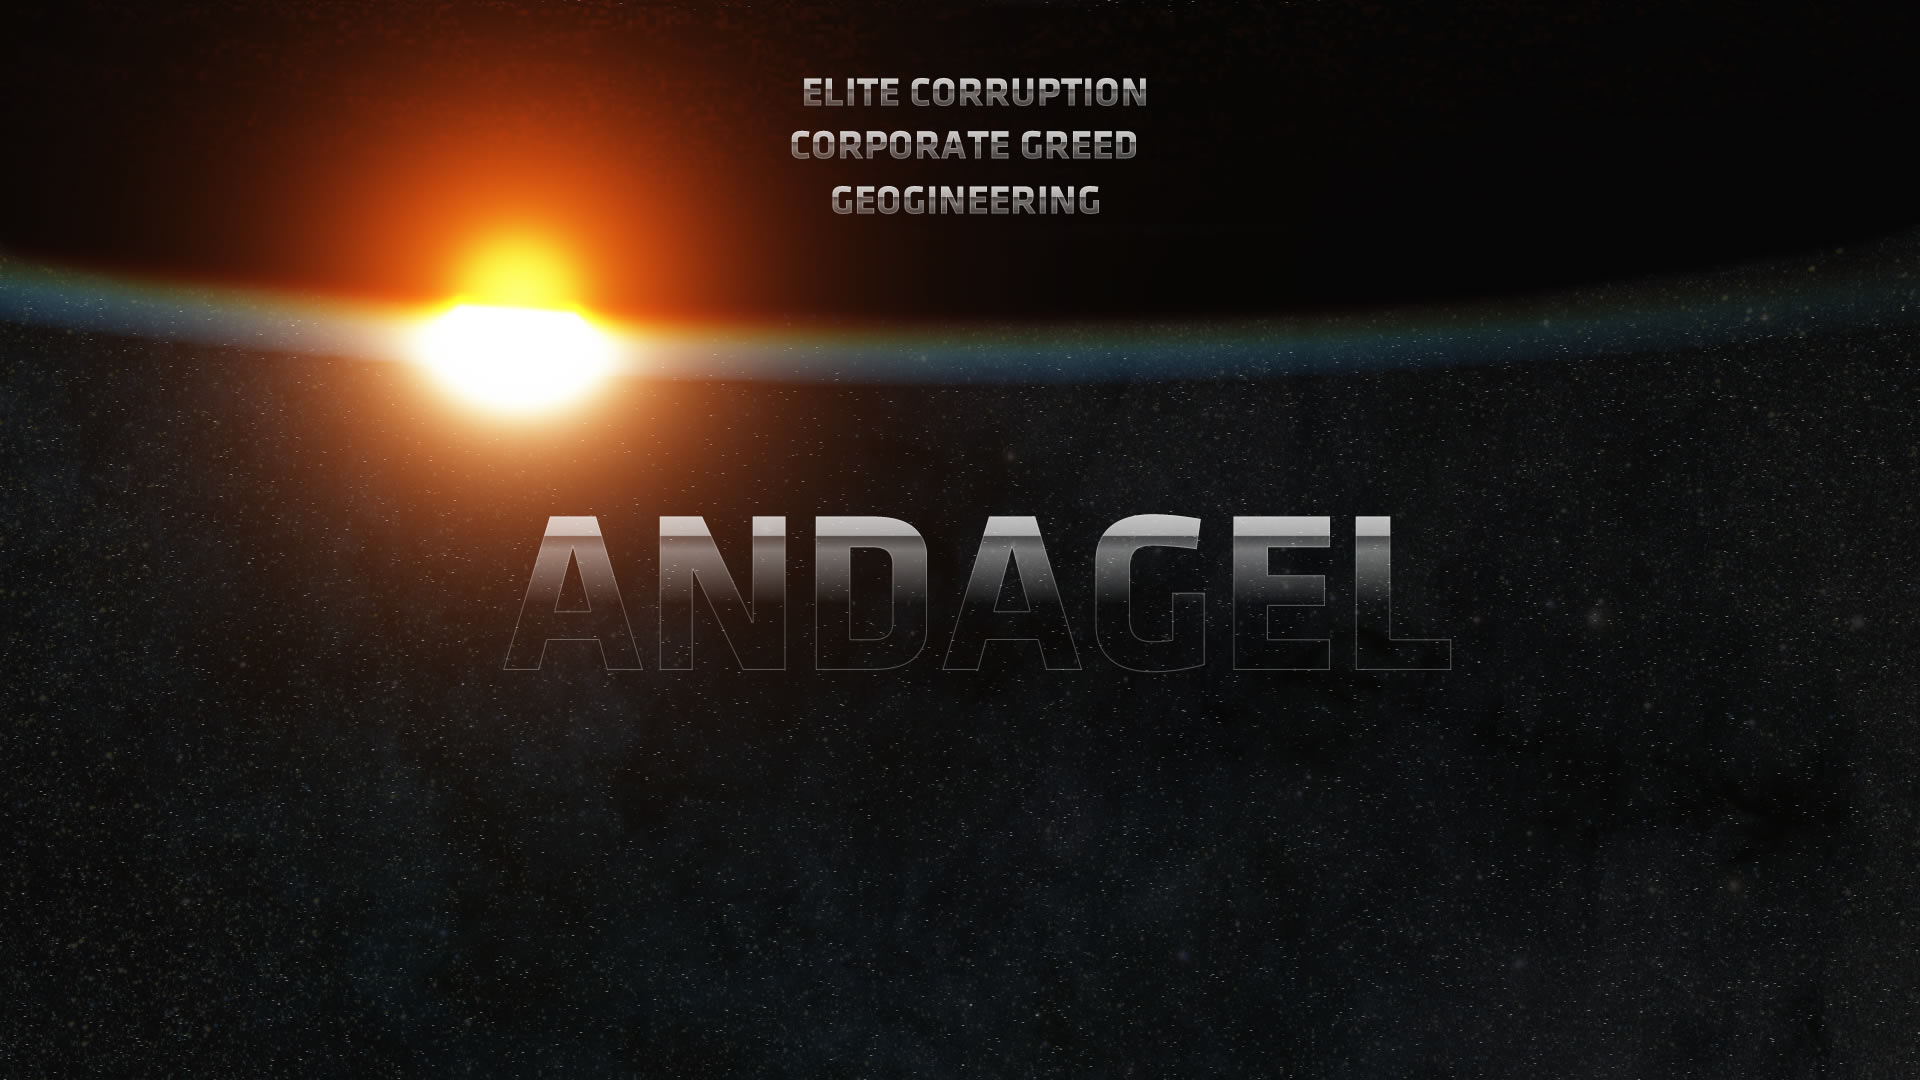
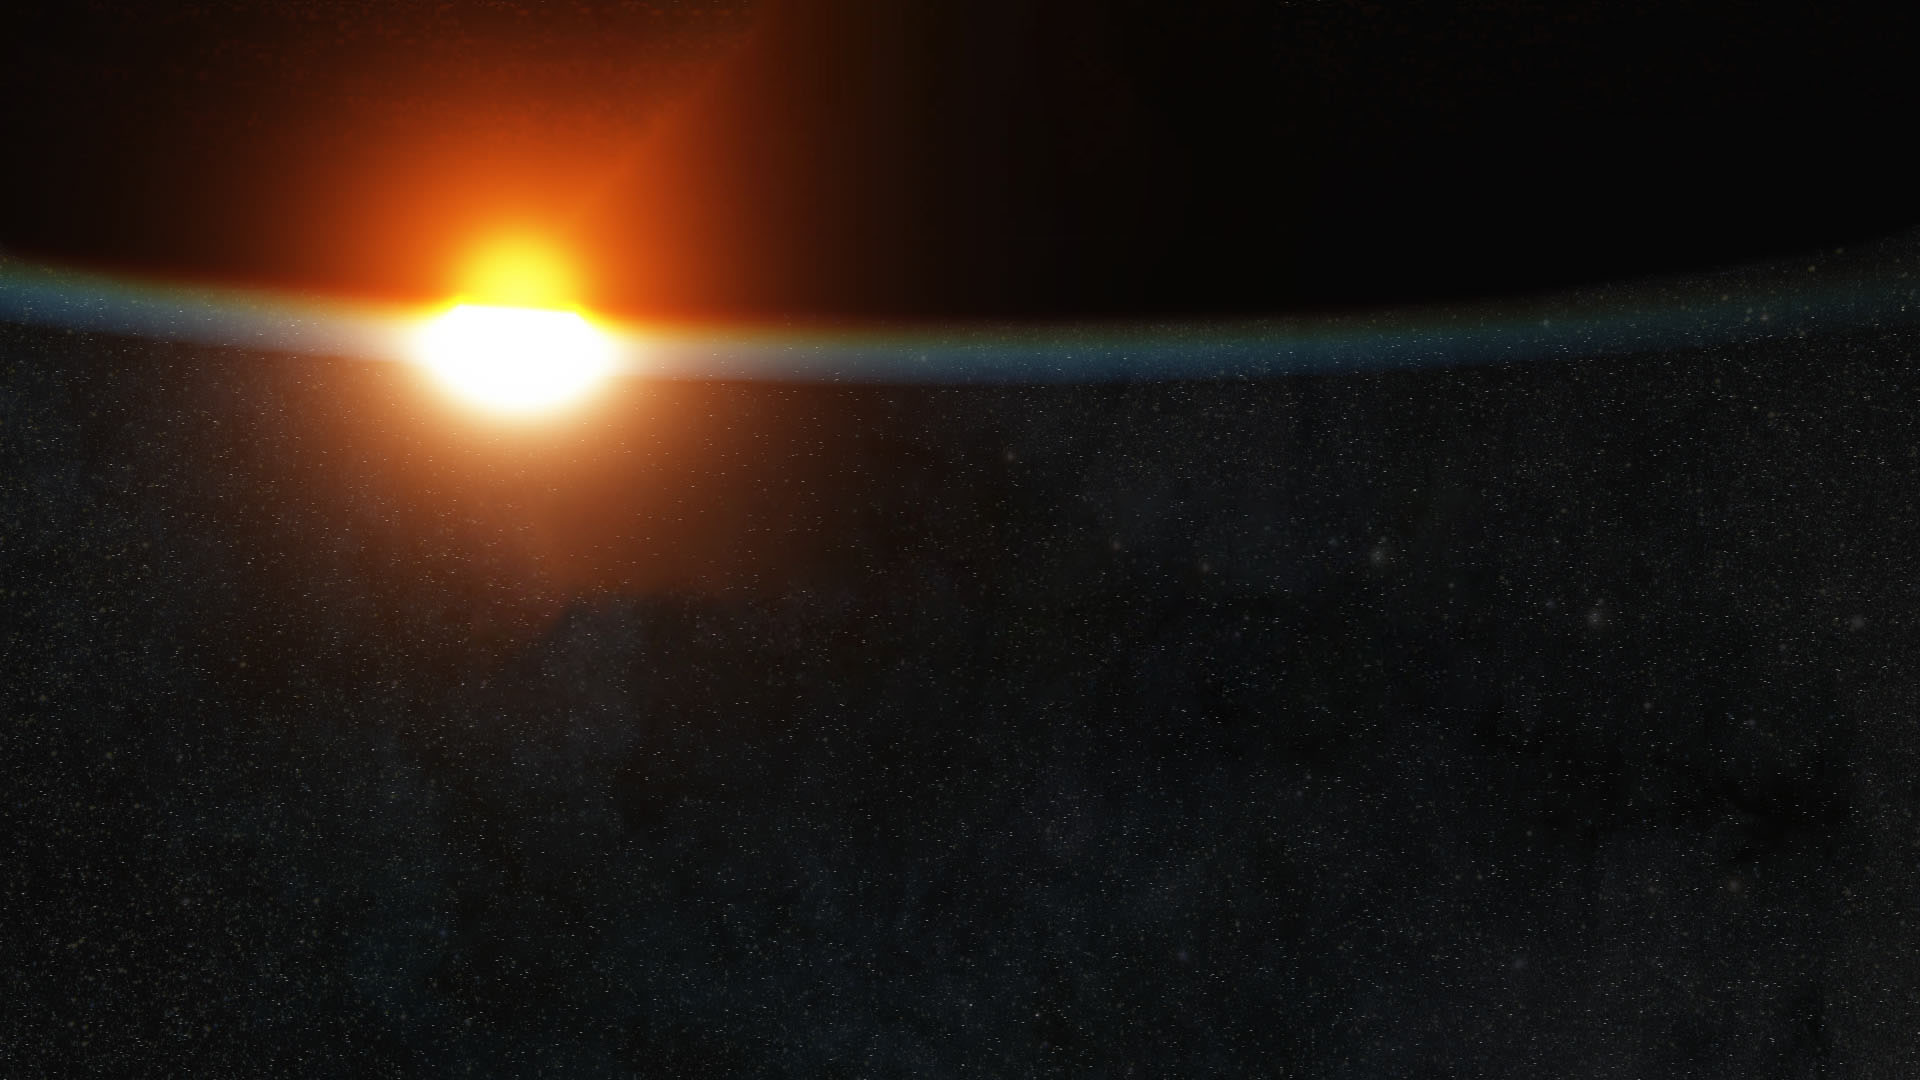
Gitignore and image

Changed region(s): [[0.3125, 0.0, 0.5938, 0.2139], [0.25, 0.4583, 0.75, 0.5806]]

diff --git a/index.html b/index.html
@@ -1,26 +1,42 @@
-<!DOCTYPE html>
+<!doctype html>
 <html>
 <head>
+<meta charset="UTF-8">
+
 	<title>Andagel</title>
 	<style>
 		html, body {
-			margin: 0;
-			padding: 0;
-			height: 100%;
-		}
-		
-		.container {
-			height: 100%;
-			background-image: url('planete.jpg');
-			background-repeat: no-repeat;
-			background-position: center;
-			background-size: cover;
-		}
+    margin: 0;
+    padding: 0;
+    height: 100%;
+}
+
+.container {
+    display: flex;
+    justify-content: center;
+    align-items: center;
+    height: 100%;
+    background-image: url('planete.jpg');
+    background-repeat: no-repeat;
+    background-position: center;
+    background-size: cover;
+}
+
+.container img {
+    max-width: 50%;
+    max-height: 50vh; /* set the height to half of the viewport height */
+    object-fit: contain; /* maintain aspect ratio */
+    display: block; /* remove extra space below the image */
+    margin: 0 auto; /* center the image horizontally */
+}
+
 	</style>
+
 </head>
-<body>
-	<div class="container">
-		<!-- Add any content you want here -->
-	</div>
+
+<body class="screwmanity">
+<div class="container">
+	<img src="assets/img/logo.png" width="1920" height="1080" alt="Andagel"/> </div>
+
 </body>
 </html>
